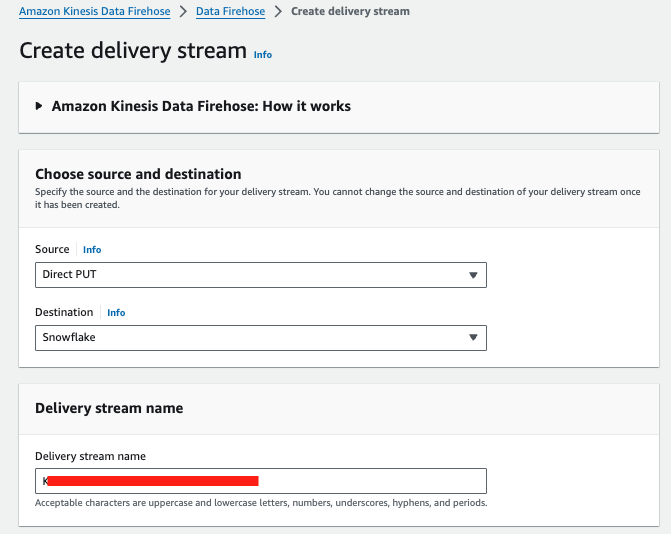
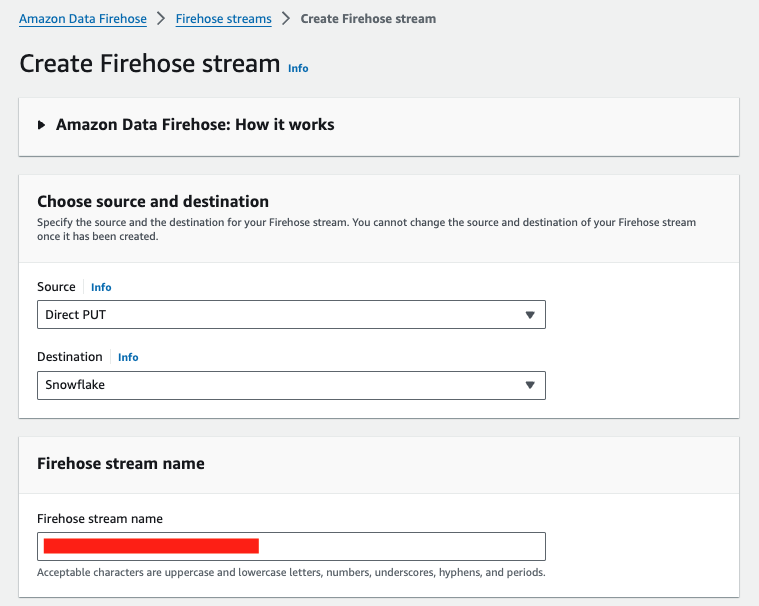
update to latest claat

diff --git a/site/sfguides/src/getting_started_with_snowflake_and_aws_kdf/getting_started_with__snowflake_and_aws_kdf.md b/site/sfguides/src/getting_started_with_snowflake_and_aws_kdf/getting_started_with__snowflake_and_aws_kdf.md
@@ -291,7 +291,7 @@ In the `Source` section, select `Direct PUT` from the drop-down menu.
 
 In the `Destination` section, select `Snowflake` from the drop-down menu.
 
-Type in a name for the delivery stream.
+Type in a name for the `Firehose stream name`.
 
 ![](assets/kdf-stream-1.png)
 
